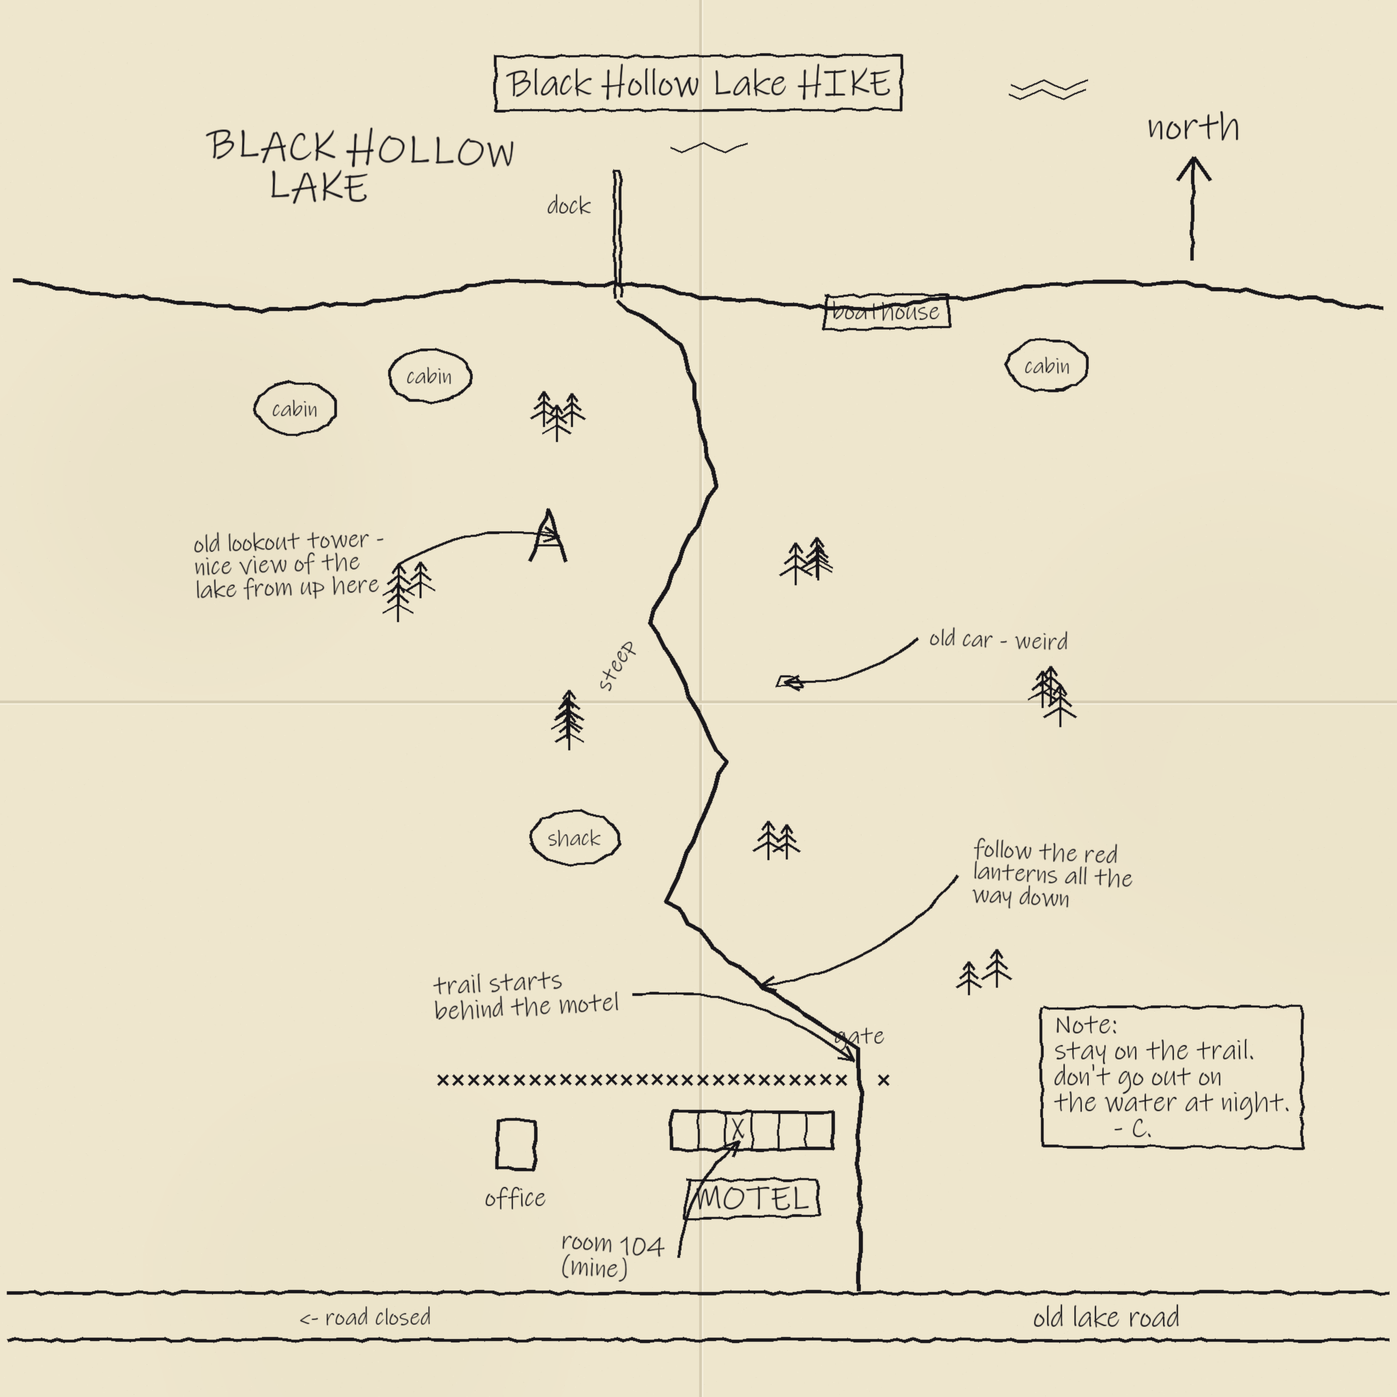
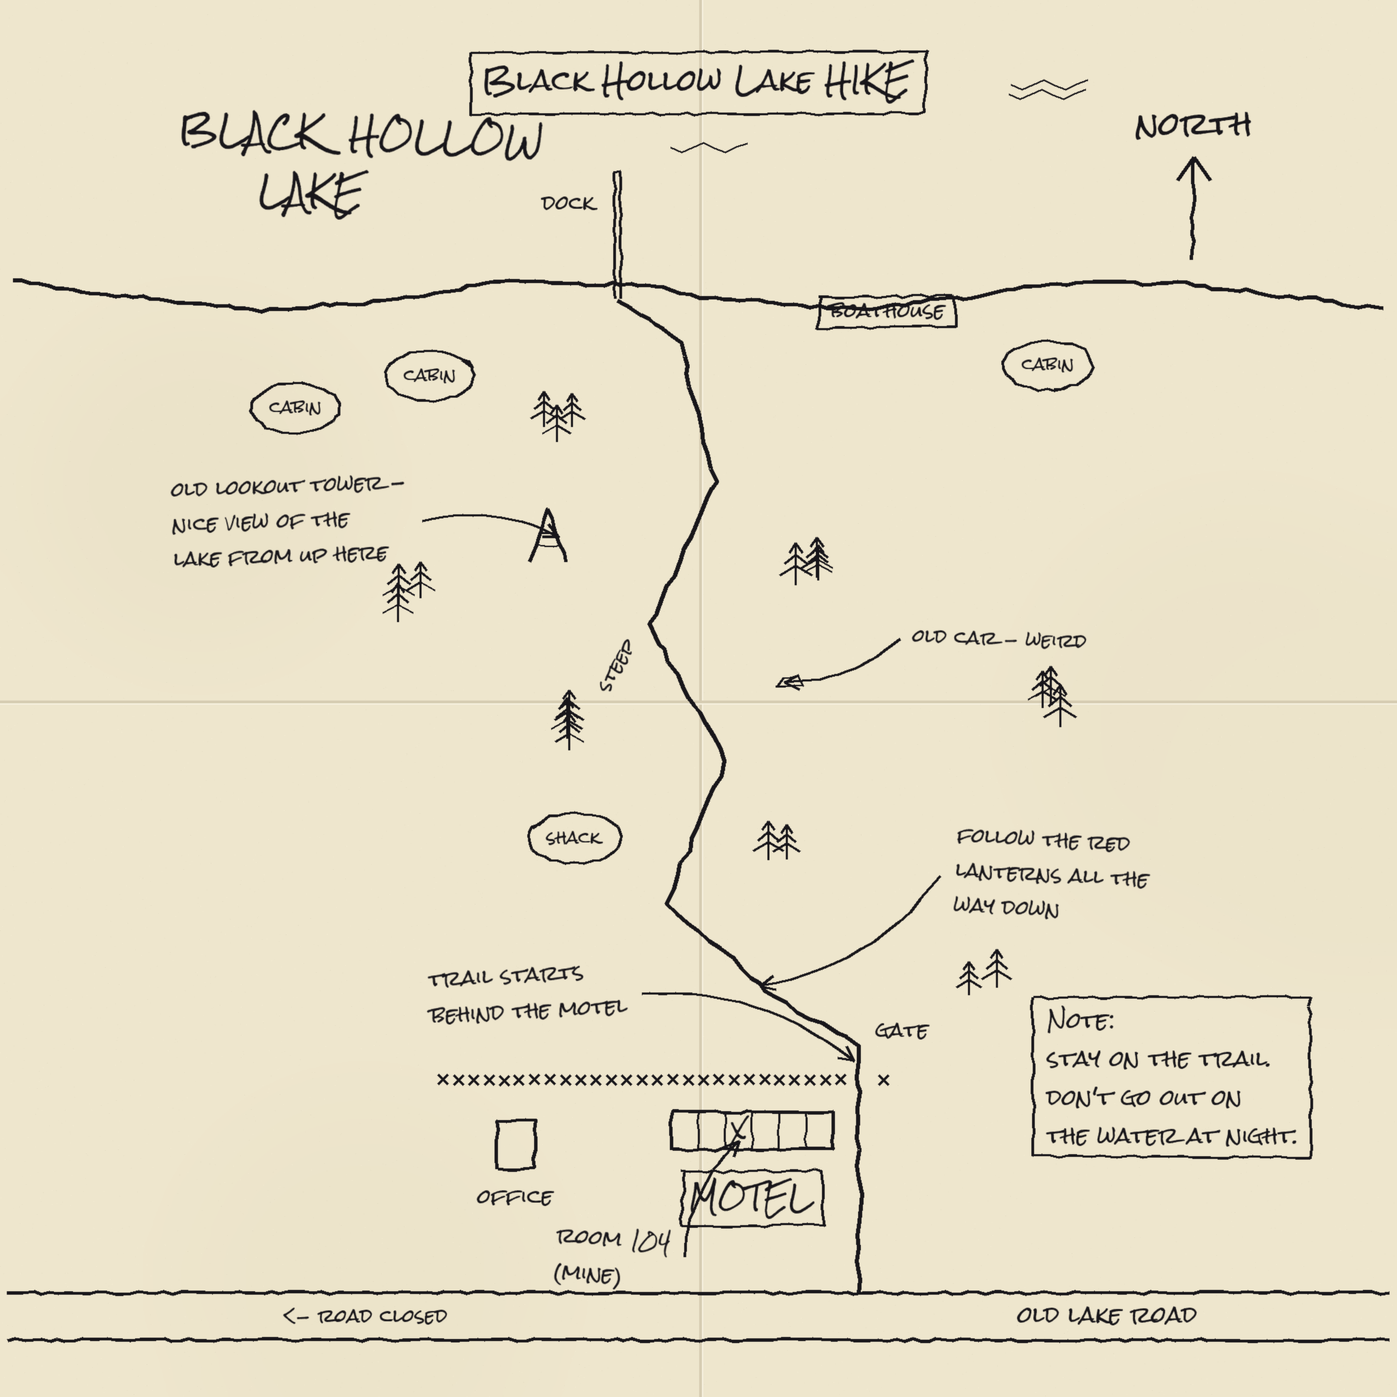
Cas's wall: Rock Salt notes, lantern note, Eileen's MISSING poster, photo-booth strip; readable close-up

diff --git a/RESEARCH_PROJECT_1/tools/make_photos.py b/RESEARCH_PROJECT_1/tools/make_photos.py
@@ -83,7 +83,13 @@ if __name__ == "__main__":
 
 # ---------- her investigation notes (the wall over the dresser in Room 104) ----------
 
-INK_FONT = r"C:/Windows/Fonts/Inkfree.ttf"
+INK_FONT = os.path.join(ROOT, "fonts", "RockSalt-Regular.ttf")   # Cas's hand (was Ink Free until 2026-11-17)
+CAS_SCALE = 0.72                                                   # Rock Salt draws ~1.4x bigger than Ink Free
+
+
+def cas_font(size, k=1):
+    from PIL import ImageFont
+    return ImageFont.truetype(INK_FONT, max(6, int(size * CAS_SCALE * k)))
 PAPER = (214, 204, 172)
 INK = (28, 26, 34)
 RED = (170, 22, 18)
@@ -105,30 +111,32 @@ def _scrawl(d, x, y, w, rng, ink=INK, height=4):
     while cx < x + w:
         pts.append((cx, y + rng.uniform(-height, height) * (0.5 if rng.random() < 0.6 else 1)))
         cx += rng.uniform(1.5, 3.2)
-    d.line(pts, fill=ink, width=1)
+    d.line(pts, fill=ink, width=max(1, int(height) // 4))
 
 
-def note(name, w, h, lines, seed, extra=None):
-    """Handwritten note: real words (lines) where she pressed hard, scrawl everywhere else."""
-    from PIL import ImageFont
+def note(name, w, h, lines, seed, extra=None, k=1):
+    """Handwritten note: real words (lines) where she pressed hard, scrawl everywhere else.
+    k > 1 draws the same note k times bigger (export/hires_<name>.png) for the wall close-up."""
     rng = random.Random(seed)
-    im = _paper(w, h, rng)
+    im = _paper(w * k, h * k, rng)
     d = ImageDraw.Draw(im)
-    y = 8
+    y = 8 * k
     for text, size, color, circle in lines:
         if text == "~":
-            _scrawl(d, 8, y + 4, w - 16 - rng.randint(0, 30), rng)
-            y += 11
+            _scrawl(d, 8 * k, y + 4 * k, (w - 16 - rng.randint(0, 30)) * k, rng, height=4 * k)
+            y += 11 * k
             continue
-        f = ImageFont.truetype(INK_FONT, size)
-        d.text((8 + rng.randint(-2, 4), y), text, font=f, fill=color)
-        tw = d.textlength(text, font=f)
-        if circle:
-            d.ellipse([4, y - 2, 12 + tw + 6, y + size + 4], outline=RED, width=2)
-        y += size + 5
+        f = cas_font(size, k)
+        x = 8 * k + rng.randint(-2, 4) * k
+        l, t, r, bt = d.textbbox((x, y), text, font=f)          # where the ink actually lands
+        d.text((x, y - (t - y) + 2 * k), text, font=f, fill=color)   # top of the ink at y + 2
+        h_ink = bt - t
+        if circle:                                              # round the word, not through it
+            d.ellipse([l - 6 * k, y - 3 * k, r + 6 * k, y + h_ink + 7 * k], outline=RED, width=2 * k)
+        y += h_ink + (9 if circle else 6) * k
     if extra:
         extra(d, im, rng)
-    im.save(os.path.join(OUT, name + ".png"))
+    im.save(os.path.join(OUT, (name if k == 1 else "hires_" + name) + ".png"))
 
 
 def clipping(name, seed):
@@ -150,7 +158,7 @@ def clipping(name, seed):
         for yy in range(y0, h - 8, 5):
             d.line([(x0, yy), (x1 - rng.randint(0, 8), yy)], fill=(110, 106, 100), width=1)
     d.ellipse([80, 120, 150, 140], outline=RED, width=2)                 # she circled something
-    d.text((96, 142), "1997!", font=ImageFont.truetype(INK_FONT, 15), fill=RED)
+    d.text((96, 142), "1997!", font=cas_font(15), fill=RED)
     im.save(os.path.join(OUT, name + ".png"))
 
 
@@ -167,17 +175,17 @@ def lake_map(name, seed):
         r = 1 + 0.12 * math.sin(a * 3 + 1) + rng.uniform(-0.04, 0.04)
         pts.append((110 + math.cos(a) * 80 * r, 78 + math.sin(a) * 50 * r))
     d.line(pts + [pts[0]], fill=INK, width=2)
-    f = ImageFont.truetype(INK_FONT, 13)
+    f = cas_font(13)
     d.text((70, 66), "BLACK HOLLOW", font=f, fill=INK)
     d.line([(110, 128), (110, 146)], fill=INK, width=3)                  # the dock
     d.text((116, 136), "dock", font=f, fill=INK)
     d.rectangle([178, 104, 192, 116], outline=INK, width=1)              # boathouse
-    d.text((150, 118), "boathouse", font=ImageFont.truetype(INK_FONT, 11), fill=INK)
+    d.text((150, 118), "boathouse", font=cas_font(11), fill=INK)
     for (x, y) in ((92, 50), (128, 46), (150, 70), (96, 96)):            # red X marks on the water
         d.line([(x - 5, y - 5), (x + 5, y + 5)], fill=RED, width=2)
         d.line([(x - 5, y + 5), (x + 5, y - 5)], fill=RED, width=2)
     d.text((8, 8), "where the lights were", font=f, fill=RED)
-    d.text((176, 20), "?", font=ImageFont.truetype(INK_FONT, 26), fill=INK)
+    d.text((176, 20), "?", font=cas_font(26), fill=INK)
     im.save(os.path.join(OUT, name + ".png"))
 
 
@@ -192,7 +200,7 @@ def diary_page(name, words, seed):
     for y in range(18, h - 6, 11):
         d.line([(0, y), (w, y)], fill=(150, 160, 185), width=1)
     d.line([(20, 0), (20, h)], fill=(190, 90, 90), width=1)
-    f = ImageFont.truetype(INK_FONT, 13)
+    f = cas_font(13)
     y = 8
     for word in words:
         if word == "~":
@@ -244,31 +252,85 @@ def painting(name, seed):
     im.save(os.path.join(OUT, name + ".png"))
 
 
+def _photo(path, w, h):
+    """A silhouette print (export/sil_*.png from tools/make_silhouettes.py), its white border cut off,
+    fitted to w x h."""
+    im = Image.open(os.path.join(OUT, path)).convert("RGB")
+    im = im.crop((30, 30, im.width - 30, im.height - 30))
+    return im.resize((w, h), Image.LANCZOS)
+
+
+def missing_eileen(k=1):
+    """Eileen's MISSING poster: a cheap printed flyer, her silhouette, the facts in type.
+    150 x 200 on the wall; k = 4 for the close-up."""
+    from PIL import ImageFont
+    rng = random.Random(21)
+    w, h = 150 * k, 200 * k
+    im = _paper(w, h, rng, tint=(226, 222, 206))
+    d = ImageDraw.Draw(im)
+    big = ImageFont.truetype(r"C:/Windows/Fonts/arialbd.ttf", 30 * k)
+    t = "MISSING"
+    d.text(((w - d.textlength(t, font=big)) / 2, 6 * k), t, font=big, fill=(20, 18, 18))
+    ph = _photo("sil_eileen.png", 84 * k, 104 * k)
+    x0, y0 = (w - ph.width) // 2, 42 * k
+    im.paste(ph, (x0, y0))
+    d.rectangle([x0 - k, y0 - k, x0 + ph.width + k, y0 + ph.height + k], outline=(30, 28, 26), width=k)
+    bold = ImageFont.truetype(r"C:/Windows/Fonts/arialbd.ttf", 11 * k)
+    reg = ImageFont.truetype(r"C:/Windows/Fonts/arial.ttf", 7 * k)
+    y = 150 * k
+    lines = [("EILEEN BYRNE", bold), ("Missing since October 17, 1997", reg),
+             ("Female, age 48, brown hair, brown eyes, 5'6" + chr(34), reg), ("Last seen at the Marrow Falls Motel", reg)]
+    for text, f in lines:
+        d.text(((w - d.textlength(text, font=f)) / 2, y), text, font=f, fill=(24, 22, 22))
+        y += (14 if f is bold else 10) * k
+    im = im.filter(ImageFilter.GaussianBlur(0.3 * k))
+    im.save(os.path.join(OUT, ("pic_missing_eileen" if k == 1 else "hires_pic_missing_eileen") + ".png"))
+
+
+def photo_strip(k=1):
+    """The photo-booth strip of Cas and Bug (STORY.md: the only picture of the two of them): four frames
+    down a white strip: Bug, Cas, then both of them twice. 60 x 220 on the wall; k = 4 for the close-up."""
+    w, h = 60 * k, 220 * k
+    im = Image.new("RGB", (w, h), (238, 236, 228))
+    fw, fh, gap = 52 * k, 50 * k, 4 * k
+    bug = _photo("sil_bug.png", fw, fh)
+    cas = _photo("sil_cas.png", fw, fh)
+    both = Image.new("RGB", (fw, fh))
+    both.paste(_photo("sil_cas.png", fw, fh).crop((fw // 4, 0, fw // 4 + fw // 2, fh)), (0, 0))
+    both.paste(_photo("sil_bug.png", fw, fh).crop((fw // 4, 0, fw // 4 + fw // 2, fh)), (fw // 2, 0))
+    for i, fr in enumerate((bug, cas, both, both)):
+        im.paste(fr, ((w - fw) // 2, gap + i * (fh + gap)))
+    im = im.filter(ImageFilter.GaussianBlur(0.25 * k))
+    im.save(os.path.join(OUT, ("pic_photo_strip" if k == 1 else "hires_pic_photo_strip") + ".png"))
+
+
 def notes():
     def arrow(d, im, rng):
         d.line([(20, im.height - 30), (im.width - 30, im.height - 50)], fill=RED, width=2)
         d.line([(im.width - 30, im.height - 50), (im.width - 42, im.height - 44)], fill=RED, width=2)
-    note("pic_note_names", 150, 200, [
-        ("every year?", 18, INK, False), ("1974  R. Dale", 14, INK, True), ("1981  M. Ostrowski", 14, INK, True),
-        ("1988  J. Peake", 14, INK, True), ("1997  T. Hale", 14, INK, True), ("~", 0, 0, 0), ("2009  L. Brandt", 14, INK, True),
-        ("2018  D. Moss", 14, INK, True), ("and now me?", 16, RED, False)], seed=1)
-    note("pic_note_night", 120, 150, [
-        ("SAME", 22, INK, False), ("NIGHT", 22, INK, False), ("every year", 15, RED, True), ("~", 0, 0, 0), ("~", 0, 0, 0),
-        ("guest book", 14, INK, False), ("ask office", 14, INK, False)], seed=2)
-    note("pic_note_lights", 120, 150, [
-        ("red lights", 17, RED, False), ("on the water", 15, INK, False), ("~", 0, 0, 0), ("who carries", 14, INK, False),
-        ("them?", 14, INK, False), ("~", 0, 0, 0)], seed=3, extra=arrow)
-    note("pic_note_rattle", 120, 150, [
-        ("the rattle", 16, INK, False), ("stops when", 14, INK, False), ("I stop", 16, RED, True), ("~", 0, 0, 0), ("~", 0, 0, 0),
-        ("~", 0, 0, 0)], seed=4)
-    note("pic_note_scrawl", 120, 150, [("~", 0, 0, 0)] * 6 + [("don't stay", 15, INK, False), ("past dark", 15, RED, False)], seed=5)
+    # (2026-11-17: the old "names" note went - it listed 2009 and 2018, after the game's 2002 - and
+    # Eileen's MISSING poster took its place; "red lights on the water" became the lantern note)
+    for k in (1, 4):                       # k = 4: the sharp copies for the wall close-up (tools/make_wall.py)
+        note("pic_note_night", 120, 150, [
+            ("SAME", 22, INK, False), ("NIGHT", 22, INK, False), ("every year", 15, RED, True), ("~", 0, 0, 0),
+            ("guest book", 14, INK, False), ("ask office", 14, INK, False)], seed=2, k=k)
+        note("pic_note_lights", 120, 150, [
+            ("why does", 16, INK, False), ("everyone lie", 16, INK, False), ("about the", 16, INK, False),
+            ("red lanterns?", 17, RED, True), ("~", 0, 0, 0)], seed=3, k=k)
+        note("pic_note_rattle", 120, 150, [
+            ("the rattle", 16, INK, False), ("stops when", 14, INK, False), ("I stop", 16, RED, True), ("~", 0, 0, 0),
+            ("~", 0, 0, 0)], seed=4, k=k)
+        note("pic_note_scrawl", 120, 150, [("~", 0, 0, 0)] * 5 + [("don't stay", 15, INK, False), ("past dark", 15, RED, False)],
+             seed=5, k=k)
+        missing_eileen(k)
+        photo_strip(k)
     for k, words in enumerate((["Oct", "~", "~", "they knew", "~", "~", "~"], ["~", "~", "the lake", "~", "~", "don't", "~", "~"],
                                ["Bug -", "~", "~", "~", "I'm sorry", "~", "~"])):
         diary_page(f"pic_page_{k + 1}", words, seed=10 + k)
     clipping("pic_clipping", seed=6)
     painting("pic_painting", seed=8)
     lake_map("pic_lake_map", seed=7)
-    print("notes: names, night, lights, rattle, scrawl, clipping, lake map")
+    print("notes: night, lantern note, rattle, scrawl, Eileen poster, photo strip, clipping, lake map")
 
 
 if __name__ == "__main__":

diff --git a/RESEARCH_PROJECT_1/tools/make_wall.py b/RESEARCH_PROJECT_1/tools/make_wall.py
@@ -1,0 +1,97 @@
+"""The close-up of Cas's wall in Room 104, for the reading screen (clues.json cas_wall; user, 2026-11-17:
+every readable is a picture of the real thing). Her pieces from tools/make_photos.py (the sharp hires_ copies),
+pinned on the motel wallpaper with red string between them: Eileen's MISSING poster, the lantern note, the
+"same night" note, the rattle note, the photo-booth strip of Cas and Bug, the newspaper
+clipping, her lake map and a few of her lake photos.
+
+    python make_wall.py   -> export/paper_wall.png (768 x 1024, the reading-screen frame)
+Run tools/make_silhouettes.py and tools/make_photos.py first.
+"""
+import math
+import os
+import random
+
+from PIL import Image, ImageDraw, ImageFilter
+
+ROOT = os.path.dirname(os.path.dirname(os.path.abspath(__file__)))
+EXPORT = os.path.join(ROOT, "export")
+W, H = 768, 1024
+
+
+def wallpaper(rng):
+    """Faded motel wallpaper: a dull green-brown with a faint vertical stripe and grime."""
+    im = Image.new("RGB", (W, H), (88, 82, 64))
+    d = ImageDraw.Draw(im)
+    for x in range(0, W, 24):
+        d.rectangle((x, 0, x + 10, H), fill=(94, 88, 70))
+    px = im.load()
+    for _ in range(W * H // 3):
+        x, y = rng.randrange(W), rng.randrange(H)
+        r, g, b = px[x, y]
+        v = rng.randint(-8, 8)
+        px[x, y] = (r + v, g + v, b + v)
+    shade = Image.new("L", (W, H), 0)
+    ImageDraw.Draw(shade).ellipse((-200, -150, W + 200, H + 150), fill=255)
+    return Image.composite(im, Image.new("RGB", (W, H), (40, 36, 28)), shade.filter(ImageFilter.GaussianBlur(160)))
+
+
+def piece(name, width, spin, rng):
+    """One item, scaled to width, turned a little, with a soft shadow; returns (image, its pin point)."""
+    path = os.path.join(EXPORT, name + ".png")
+    im = Image.open(path).convert("RGBA")
+    im = im.resize((width, int(im.height * width / im.width)), Image.LANCZOS)
+    im = im.rotate(spin, expand=True, resample=Image.BICUBIC)
+    sh = Image.new("RGBA", (im.width + 20, im.height + 20), (0, 0, 0, 0))
+    sh.paste((0, 0, 0, 110), (10, 14), im.getchannel("A"))
+    sh = sh.filter(ImageFilter.GaussianBlur(5))
+    sh.alpha_composite(im, (6, 4))
+    return sh
+
+
+def main():
+    rng = random.Random(17)
+    wall = wallpaper(rng).convert("RGBA")
+    layout = [  # name, width px, spin deg, x, y (top-left), pinned?
+        ("pic_lake_dusk", 170, 4, 30, 40, False), ("pic_lake_fog", 170, -3, 220, 26, False),
+        ("pic_dock", 170, 2, 420, 46, False), ("pic_lake_night", 160, -5, 590, 70, False),
+        ("hires_pic_missing_eileen", 250, -2, 40, 230, True),
+        ("hires_pic_note_lights", 190, 3, 320, 250, True),
+        ("pic_lanterns", 170, -4, 540, 250, False),
+        ("hires_pic_photo_strip", 86, 3, 560, 470, False),
+        ("hires_pic_note_night", 170, -5, 330, 520, True),
+        ("pic_clipping", 200, 4, 40, 640, True),
+        ("hires_pic_note_rattle", 160, 6, 290, 760, True),
+        ("pic_lake_map", 230, 2, 480, 760, True),
+    ]
+    pins = {}
+    for name, width, spin, x, y, pinned in layout:
+        im = piece(name, width, spin, rng)
+        wall.alpha_composite(im, (x, y))
+        cx = x + im.width // 2
+        if pinned:
+            pins[name] = (cx, y + 18)
+        else:                                           # taped: a strip of yellowed tape across the top
+            tape = Image.new("RGBA", (70, 22), (214, 200, 150, 170))
+            tape = tape.rotate(rng.uniform(-8, 8), expand=True, resample=Image.BICUBIC)
+            wall.alpha_composite(tape, (cx - tape.width // 2, y + 2))
+            if name in ("pic_lanterns", "hires_pic_photo_strip"):
+                pins[name] = (cx, y + 14)
+    d = ImageDraw.Draw(wall)
+    for a, b in (("hires_pic_missing_eileen", "hires_pic_note_lights"), ("hires_pic_note_lights", "pic_lanterns"),
+                 ("hires_pic_note_lights", "hires_pic_note_night"),
+                 ("hires_pic_note_night", "pic_lake_map"), ("hires_pic_note_rattle", "pic_lake_map")):
+        (x0, y0), (x1, y1) = pins[a], pins[b]
+        sag = [(x0 + (x1 - x0) * t, y0 + (y1 - y0) * t + 22 * math.sin(math.pi * t)) for t in [k / 20 for k in range(21)]]
+        d.line(sag, fill=(150, 20, 18, 255), width=3)
+    for name, (x, y) in pins.items():                  # red pin heads
+        d.ellipse((x - 7, y - 7, x + 7, y + 7), fill=(170, 24, 20, 255))
+        d.ellipse((x - 3, y - 5, x + 1, y - 1), fill=(240, 150, 140, 255))
+    mask = Image.new("L", (W, H), 0)                    # the close-up's edge: a slightly rounded frame
+    ImageDraw.Draw(mask).rounded_rectangle((0, 0, W - 1, H - 1), radius=10, fill=255)
+    wall.putalpha(mask)
+    wall.save(os.path.join(EXPORT, "paper_wall.png"))
+    print("wall close-up written")
+
+
+if __name__ == "__main__":
+    main()

diff --git a/RESEARCH_PROJECT_1/maya/room_props.py b/RESEARCH_PROJECT_1/maya/room_props.py
@@ -442,7 +442,7 @@ def investigation_wall(wall_x, front):
     (tools/make_photos.py), a newspaper clipping, a hand-drawn lake map, a red pin in each,
     and red string between the ones she connected. wall_x = the wall face (+x into the room)."""
     items = {   # name: (y from FRONT, z centre, width, height, spin)
-        "pic_note_names": (168, 192, 21, 28, -3),
+        "pic_missing_eileen": (168, 194, 24, 32, -2),   # her mom's MISSING poster (2026-11-17, was a names list)
         "pic_lake_map": (272, 248, 42, 30, 2),
         "pic_clipping": (392, 196, 24, 30, 4),
         "pic_note_night": (440, 238, 17, 21, -5),
@@ -456,9 +456,12 @@ def investigation_wall(wall_x, front):
         pin = (wall_x + 2.8, front + dy, z + h / 2.0 - 2.0)
         sphere(*pin, 0.8, "pin_mat", sides=8)
         pins[name] = pin
+    # the photo-booth strip of Cas and Bug, taped up by itself (STORY.md: the only picture of the two of them)
+    picture(wall_x + 2.0, front + 126, 204, 8, 29, "pic_photo_strip", spin=3)
+    rbox(wall_x + 3.0, front + 126, 218.5, 1, 6, 2.5, "tape_mat")
     pins["pic_lanterns"] = (wall_x + 2.8, front + 336, 214.5)           # the red-lights photo (taped)
     sphere(*pins["pic_lanterns"], 0.8, "pin_mat", sides=8)
-    for a, b in (("pic_note_names", "pic_lake_map"), ("pic_lake_map", "pic_lanterns"),
+    for a, b in (("pic_missing_eileen", "pic_lake_map"), ("pic_lake_map", "pic_lanterns"),
                  ("pic_lanterns", "pic_note_lights"), ("pic_note_lights", "pic_note_night"),
                  ("pic_note_rattle", "pic_lake_map")):
         p, q = pins[a], pins[b]

diff --git a/RESEARCH_PROJECT_1/unreal/place_clues.py b/RESEARCH_PROJECT_1/unreal/place_clues.py
@@ -26,6 +26,7 @@ SHAPES = {
     "folder": ((31, 23, 1.4), "MI_PS2_page_mat", (0, 0, 0.7)),          # a manila file folder (the 1974 log)
     "notebook": ((15, 21, 1.6), "MI_PS2_diary_mat", (0, 0, 0.8)),       # Cas's spiral notebook
     "wall_page": ((0.4, 21, 28), "MI_PS2_curtain_mat", (0, 0, 14)),     # a page nailed to a wall (faces +-x after yaw)
+    "wall_zone": ((4, 340, 130), "MI_PS2_curtain_mat", (0, 0, 65)),     # invisible: the aim area over Cas's wall
     "key":   ((10, 4, 1.2), "MI_PS2_brass_mat", (0, 0, 0.6)),
     "book":  ((30, 22, 4), "MI_PS2_door_mat", (0, 0, 2)),
     "door":  ((108, 5, 228), "MI_PS2_door_mat", (54, 0, 114)),
@@ -94,6 +95,8 @@ def main():
             mesh.set_relative_location(unreal.Vector(*offset), False, True)
             mesh.set_relative_scale3d(unreal.Vector(size[0] / 100, size[1] / 100, size[2] / 100))
             mesh.set_material(0, unreal.load_asset(MATS + mat))
+        if c["shape"] == "wall_zone":                  # only the aim box counts; the wall itself is the prop
+            mesh.set_visibility(False)
         if (c.get("room") or in_room(c["at"])) and "door" not in c["shape"]:
             mesh.set_editor_property("lighting_channels", ROOM_LIGHT)   # like the room around it
         # the invisible aim box: the object plus HIT_MARGIN all round (doors: just the door)

diff --git a/RESEARCH_PROJECT_1/tools/make_interact_nodes.py b/RESEARCH_PROJECT_1/tools/make_interact_nodes.py
@@ -48,7 +48,7 @@ HANDS = [("cas", "/Game/Horror/UI/F_Hand_Cas.F_Hand_Cas", 0.5, "(R=0.020,G=0.030
 INK = "(R=0.030,G=0.028,B=0.035,A=0.950000)"     # writing with no hand, on paper
 # the sheet a paper is shown on (clues.json "paper" -> BP_Examinable.Paper -> HUD.ReadPaper; tools/make_papers.py)
 PAPERS = [(k, f"/Game/Horror/UI/T_Paper_{k.capitalize()}.T_Paper_{k.capitalize()}")
-          for k in ("stationery", "notebook", "typed", "ledger", "scrap", "key_office", "key_gate", "key_boathouse", "register")]
+          for k in ("stationery", "notebook", "typed", "ledger", "scrap", "key_office", "key_gate", "key_boathouse", "register", "wall")]
 PAPER_H, PAPER_ASPECT, PAPER_TOP = 0.92, 0.75, 0.04       # sheet height / width:height / top, x screen height
 PAPER_TEXT_X, PAPER_TEXT_Y = 0.11, 0.15                   # where the writing starts: x screen height in, x sheet height down
 TEXT = "(R=0.78,G=0.75,B=0.68,A=1.000000)"                   # warm off-white

diff --git a/RESEARCH_PROJECT_1/maya/make_motel.py b/RESEARCH_PROJECT_1/maya/make_motel.py
@@ -70,7 +70,7 @@ MATS = {
     "tv_mat": (0.09, 0.075, 0.06), "screen_mat": (0.035, 0.045, 0.045), "sole_mat": (0.62, 0.6, 0.55),
     "lining_mat": (0.3, 0.1, 0.09), "pin_mat": (0.6, 0.03, 0.02), "red_string_mat": (0.45, 0.03, 0.03),
     "shoe_inner_mat": (0.05, 0.05, 0.05), "jacket_cuff_mat": (0.08, 0.1, 0.08),
-    "pic_note_names": (1, 1, 1), "pic_note_night": (1, 1, 1), "pic_note_lights": (1, 1, 1), "pic_note_rattle": (1, 1, 1),
+    "pic_missing_eileen": (1, 1, 1), "pic_photo_strip": (1, 1, 1), "pic_note_night": (1, 1, 1), "pic_note_lights": (1, 1, 1), "pic_note_rattle": (1, 1, 1),
     "pic_note_scrawl": (1, 1, 1), "pic_clipping": (1, 1, 1), "pic_lake_map": (1, 1, 1),
     "pic_page_1": (1, 1, 1), "pic_page_2": (1, 1, 1), "pic_page_3": (1, 1, 1), "pen_mat": (0.05, 0.07, 0.2),
     "chair_mat": (0.85, 0.85, 0.8), "metal_mat": (0.3, 0.3, 0.3), "ice_mat": (0.8, 0.82, 0.85),

diff --git a/RESEARCH_PROJECT_1/unreal/import_papers.py b/RESEARCH_PROJECT_1/unreal/import_papers.py
@@ -7,7 +7,8 @@ DEST = "/Game/Horror/UI"
 
 for kind in ("stationery", "notebook", "typed", "ledger", "scrap",
              "key_office", "key_gate", "key_boathouse",      # the keys: tools/make_keys.py
-             "register"):                                    # the guest register page: tools/make_guest_book.py
+             "register",                                     # the guest register page: tools/make_guest_book.py
+             "wall"):                                        # Cas's wall close-up: tools/make_wall.py
     name = "T_Paper_" + kind.capitalize()
     t = unreal.AssetImportTask()
     t.filename = ROOT + f"paper_{kind}.png"

diff --git a/RESEARCH_PROJECT_1/process/README.md b/RESEARCH_PROJECT_1/process/README.md
@@ -274,3 +274,10 @@ seams, two chest pockets with flaps and snaps, folds near the arms.
 
 ## 2026-11-17_silhouettes_v11.png
 Cas without the little strands of hair sticking out (user); her hair edge is clean now.
+
+## 2026-11-17_cas_wall_closeup.png
+Cas's wall as the reading screen shows it (tools/make_wall.py), and on the Room 104 wall itself: her
+notes now in her Rock Salt hand, the lantern note ("why does everyone lie about the red lanterns?"),
+Eileen's MISSING poster with her silhouette (replacing the old names list, which had dates after 2002),
+and the photo-booth strip of Cas and Bug, pinned and strung on the wallpaper with her lake photos,
+the clipping and her lake map.
